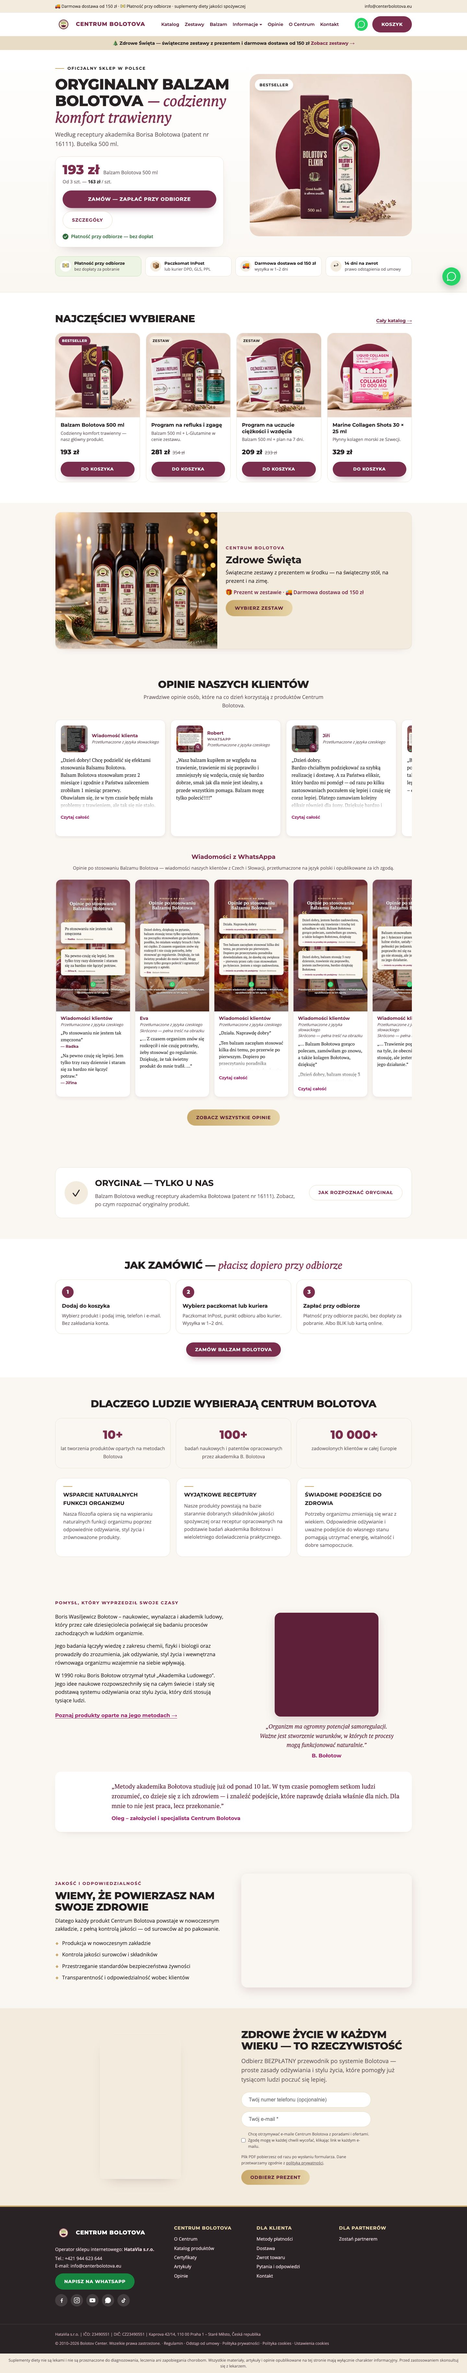
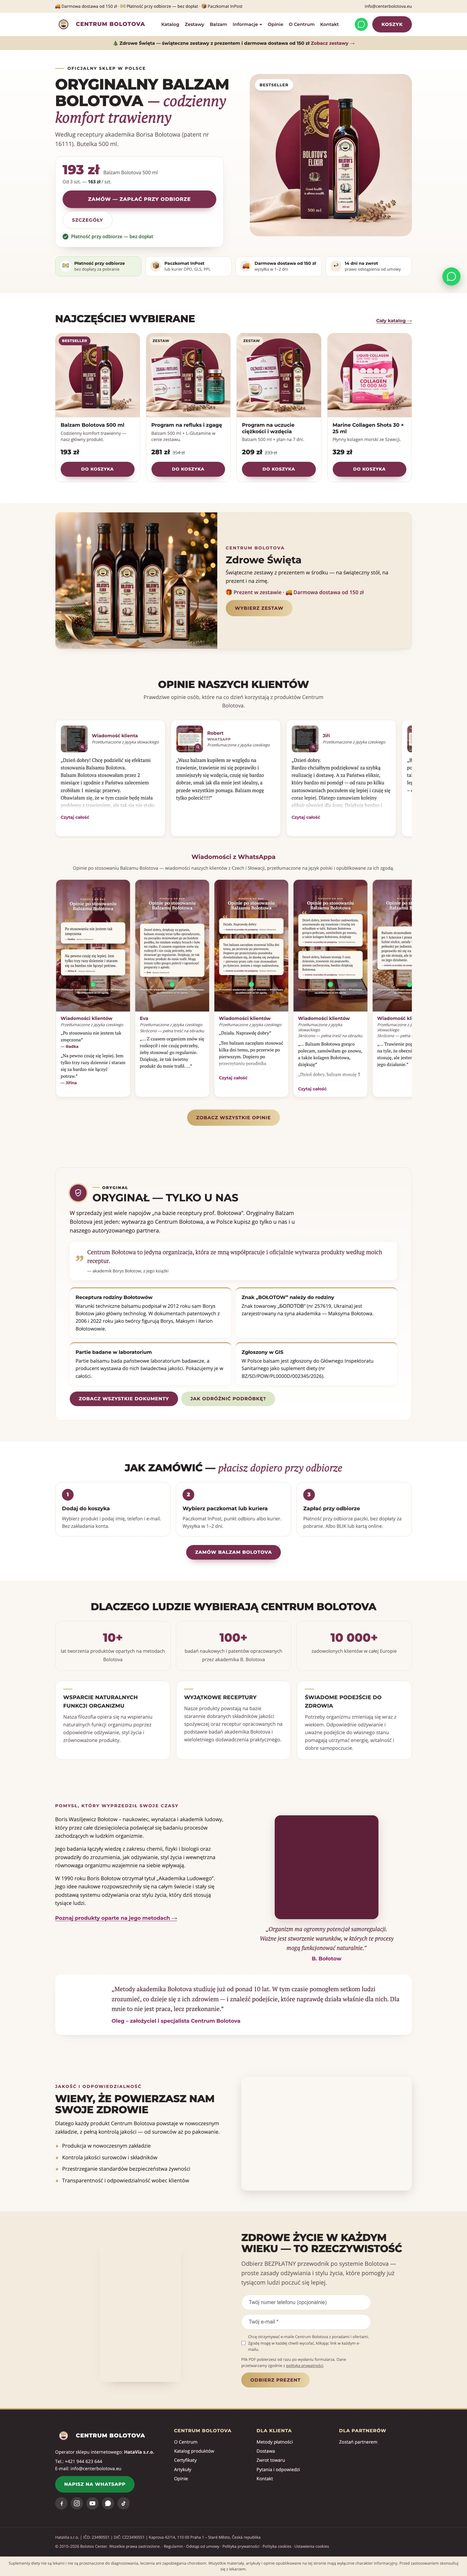
pl-redesign: home page now carries the «Oryginał» block A2 (not final copy)

diff --git a/pl-redesign/oryginal.css b/pl-redesign/oryginal.css
@@ -1,0 +1,96 @@
+/* «Oryginał» styles — certificates page + the drop-in blocks in components/oryginal/.
+   Scoped to .orig-* classes; relies on brand.css variables (--wine, --magenta, --gold, --sage, --cream).
+   Docs: docs/ORIGINAL-COPY.md (texts), components/oryginal/README.md (how to include). */
+
+.orig-eyebrow{display:inline-flex;align-items:center;gap:8px;font-family:'Montserrat','Montserrat Fallback',sans-serif;font-weight:800;font-size:12px;letter-spacing:.14em;text-transform:uppercase;color:var(--magenta)}
+.orig-eyebrow::before{content:'';width:22px;height:2px;background:var(--gold);border-radius:2px}
+.orig-seal{flex:0 0 auto;width:52px;height:52px;border-radius:50%;display:grid;place-items:center;background:var(--wine);color:#fff;box-shadow:0 0 0 4px var(--gold-light)}
+.orig-seal svg{width:26px;height:26px}
+
+/* ---------- Short block (card / home strip) ---------- */
+.orig-short{display:flex;gap:16px;align-items:flex-start;background:#fff;border:1px solid #efe2e8;border-left:5px solid var(--wine);border-radius:16px;padding:18px 20px;box-shadow:0 4px 16px rgba(94,32,57,.07)}
+.orig-short h3{margin:2px 0 6px;font-size:18px;line-height:1.25;color:var(--wine)}
+.orig-short p{margin:0;font-size:15px;line-height:1.55}
+.orig-short a.orig-link{display:inline-block;margin-top:8px;font-weight:700;color:var(--magenta);text-decoration:none}
+.orig-short a.orig-link:hover{text-decoration:underline}
+
+/* ---------- Long block (home section / card tab) ---------- */
+.orig-long{background:linear-gradient(180deg,var(--cream),#fff);border-radius:22px;padding:clamp(22px,4vw,44px);border:1px solid #efe2e8}
+.orig-long-head{display:flex;gap:18px;align-items:center;margin-bottom:14px}
+.orig-long h2{margin:4px 0 0;font-size:clamp(24px,3vw,32px);line-height:1.15;color:var(--wine)}
+.orig-lead{font-size:17px;line-height:1.6;max-width:760px}
+.orig-quote{margin:22px 0;padding:18px 22px 18px 54px;position:relative;background:#fff;border-radius:14px;box-shadow:0 4px 16px rgba(94,32,57,.06);font-family:'PT Serif','PT Serif Fallback',serif;font-size:18px;line-height:1.5;color:var(--wine-dark)}
+.orig-quote::before{content:'„';position:absolute;left:16px;top:-6px;font-size:64px;line-height:1;color:var(--gold)}
+.orig-quote cite{display:block;margin-top:8px;font-family:'Open Sans','Open Sans Fallback',sans-serif;font-style:normal;font-size:13px;color:#6b5b62}
+.orig-points{display:grid;grid-template-columns:repeat(2,1fr);gap:14px;margin:0;padding:0;list-style:none}
+.orig-points li{background:#fff;border-radius:14px;padding:16px 18px;border-top:3px solid var(--gold);box-shadow:0 3px 12px rgba(94,32,57,.05);font-size:15px;line-height:1.55}
+.orig-points strong{display:block;font-family:'Montserrat','Montserrat Fallback',sans-serif;color:var(--wine);margin-bottom:4px;font-size:15px}
+.orig-actions{display:flex;flex-wrap:wrap;gap:10px;margin-top:20px}
+
+/* ---------- Price block ---------- */
+.orig-price{background:var(--wine-dark);color:#fff;border-radius:22px;padding:clamp(22px,4vw,44px);overflow:hidden;position:relative}
+.orig-price h2{color:#fff;margin:6px 0 8px;font-size:clamp(24px,3vw,32px);line-height:1.15}
+.orig-price .orig-eyebrow{color:var(--gold-light)}
+.orig-price-lead{color:#ecdbe2;font-size:17px;line-height:1.6;max-width:640px}
+.orig-price-grid{display:grid;grid-template-columns:minmax(220px,300px) 1fr;gap:clamp(18px,3vw,36px);margin-top:22px;align-items:start}
+.orig-perday{background:var(--cream);color:var(--wine-dark);border-radius:18px;padding:22px;text-align:center}
+.orig-perday .num{display:block;font-family:'Montserrat','Montserrat Fallback',sans-serif;font-weight:800;font-size:46px;line-height:1;color:var(--wine)}
+.orig-perday .unit{display:block;font-weight:700;margin-top:4px}
+.orig-perday small{display:block;margin-top:10px;font-size:13px;line-height:1.45;color:#6b5b62}
+.orig-perday table{width:100%;margin-top:14px;border-collapse:collapse;font-size:14px}
+.orig-perday td{padding:6px 4px;border-top:1px solid #eadfd3;text-align:left}
+.orig-perday td:last-child{text-align:right;font-weight:700;color:var(--wine);white-space:nowrap}
+.orig-reasons{list-style:none;margin:0;padding:0;display:grid;gap:12px;counter-reset:r}
+.orig-reasons li{counter-increment:r;position:relative;padding:14px 16px 14px 56px;background:rgba(255,255,255,.07);border:1px solid rgba(255,255,255,.12);border-radius:14px;font-size:15px;line-height:1.55;color:#f3e8ec}
+.orig-reasons li::before{content:counter(r);position:absolute;left:14px;top:14px;width:28px;height:28px;border-radius:50%;background:var(--gold);color:var(--wine-dark);font-weight:800;display:grid;place-items:center;font-family:'Montserrat','Montserrat Fallback',sans-serif;font-size:14px}
+.orig-reasons strong{display:block;color:#fff;font-family:'Montserrat','Montserrat Fallback',sans-serif;margin-bottom:2px}
+.orig-price .orig-note{margin-top:18px;font-size:12.5px;line-height:1.5;color:#cdb5bf}
+.orig-price .btn-ghost{background:transparent;color:#fff;border:1.5px solid rgba(255,255,255,.5)}
+.orig-price .btn-ghost:hover{background:rgba(255,255,255,.1)}
+.orig-price .btn-gold{background:var(--gold);color:var(--wine-dark)}
+.orig-price .btn-gold:hover{background:var(--gold-light)}
+@media (max-width:760px){.orig-price-grid{grid-template-columns:1fr}}
+
+/* ---------- Certificates page ---------- */
+.orig-page{max-width:980px}
+.orig-hero{text-align:center;max-width:760px;margin:0 auto}
+.orig-hero p{font-size:17px;line-height:1.6;margin-top:14px}
+.orig-status{display:flex;gap:16px;align-items:center;max-width:760px;margin:26px auto 0;background:#fff;border-radius:16px;padding:16px 20px;border:1px solid #e5ecd6;box-shadow:0 4px 16px rgba(94,32,57,.06)}
+.orig-status .orig-seal{background:#5d7a3a;box-shadow:0 0 0 4px var(--sage)}
+.orig-status dl{margin:0;display:grid;gap:2px;font-size:14px;line-height:1.5}
+.orig-status dt{font-family:'Montserrat','Montserrat Fallback',sans-serif;font-weight:800;color:var(--wine);font-size:15px}
+.orig-status dd{margin:0}
+.orig-jump{display:flex;flex-wrap:wrap;justify-content:center;gap:8px;margin:22px 0 6px;padding:0;list-style:none}
+.orig-jump a{display:inline-block;padding:7px 14px;border-radius:40px;background:var(--sage);color:var(--wine-dark);font-size:13.5px;font-weight:700;text-decoration:none}
+.orig-jump a:hover{background:var(--sage-deep)}
+.orig-sec{margin-top:48px;scroll-margin-top:90px}
+.orig-sec h2{font-size:clamp(21px,2.4vw,27px);color:var(--wine);margin:0 0 12px;display:flex;align-items:center;gap:12px}
+.orig-sec h2 .n{flex:0 0 auto;width:34px;height:34px;border-radius:50%;background:var(--wine);color:#fff;display:grid;place-items:center;font-size:15px}
+.orig-sec p{line-height:1.65}
+.orig-split{display:grid;grid-template-columns:1fr 260px;gap:24px;align-items:start}
+.orig-thumbs{display:grid;grid-template-columns:1fr 1fr;gap:10px}
+.orig-thumbs a,.orig-lib a{position:relative;display:block;cursor:zoom-in}
+.orig-thumbs img{width:100%;height:170px;object-fit:contain;background:#fff;border:1px solid #efe5e9;border-radius:10px;padding:6px}
+.orig-facts{display:grid;grid-template-columns:1fr 1fr;gap:12px;margin:0}
+.orig-facts .wide{grid-column:1/-1}
+.orig-facts div{background:#fff;border-radius:14px;padding:14px 16px;box-shadow:0 3px 12px rgba(94,32,57,.05)}
+.orig-facts dt{font-family:'Montserrat','Montserrat Fallback',sans-serif;font-weight:800;font-size:12px;letter-spacing:.08em;text-transform:uppercase;color:var(--magenta)}
+.orig-facts dd{margin:4px 0 0;line-height:1.55}
+.orig-steps{list-style:none;margin:18px 0 0;padding:0;position:relative}
+.orig-steps::before{content:'';position:absolute;left:19px;top:10px;bottom:10px;width:2px;background:linear-gradient(var(--gold),var(--wine))}
+.orig-steps li{position:relative;padding:0 0 18px 58px}
+.orig-steps li .k{position:absolute;left:0;top:0;width:40px;height:40px;border-radius:50%;background:#fff;border:2px solid var(--wine);color:var(--wine);display:grid;place-items:center;font-weight:800;font-family:'Montserrat','Montserrat Fallback',sans-serif}
+.orig-steps li strong{display:block;color:var(--wine);font-family:'Montserrat','Montserrat Fallback',sans-serif;margin-bottom:2px;padding-top:8px}
+.orig-steps li span{display:block;font-size:15px;line-height:1.55}
+.orig-steps li a{color:var(--magenta);font-weight:700;font-size:14px}
+.orig-score{display:inline-flex;align-items:center;gap:10px;margin-top:4px;padding:10px 16px;border-radius:12px;background:var(--sage);color:var(--wine-dark);font-weight:700}
+.orig-lib{display:grid;grid-template-columns:repeat(auto-fill,minmax(150px,1fr));gap:16px;margin-top:14px}
+.orig-lib figure{margin:0}
+.orig-lib img{width:100%;height:210px;object-fit:contain;background:#fff;border:1px solid #efe5e9;border-radius:12px;padding:8px;box-shadow:0 4px 14px rgba(94,32,57,.07);transition:.18s}
+.orig-lib a:hover img{box-shadow:0 8px 22px rgba(94,32,57,.16);transform:translateY(-2px)}
+.orig-lib figcaption{margin-top:8px;font-size:13px;line-height:1.4;color:#5a4a51}
+.orig-checks{list-style:none;margin:12px 0 0;padding:0;display:grid;gap:10px}
+.orig-checks li{position:relative;padding:12px 14px 12px 46px;background:#fff;border-radius:12px;box-shadow:0 3px 12px rgba(94,32,57,.05);line-height:1.55}
+.orig-checks li::before{content:'✓';position:absolute;left:14px;top:11px;width:22px;height:22px;border-radius:50%;background:var(--sage);color:#3f5a22;font-weight:800;display:grid;place-items:center;font-size:13px}
+.orig-checks li.warn::before{content:'!';background:#f6e1d8;color:#9a3b12}
+@media (max-width:760px){.orig-split{grid-template-columns:1fr}.orig-lib{grid-template-columns:1fr 1fr;gap:12px}.orig-lib img{height:190px}.orig-points,.orig-facts{grid-template-columns:1fr}.orig-thumbs img{height:150px}.orig-status{align-items:flex-start}}

diff --git a/pl-redesign/index.html b/pl-redesign/index.html
@@ -21,7 +21,7 @@ try{ if(/koszyk/.test(location.pathname) && !JSON.parse(localStorage.getItem('bo
   <meta property="og:type" content="website">
   <meta property="og:title" content="Centrum Bolotova — oficjalna strona internetowa w Polsce">
   <meta property="og:image" content="assets/img/logo.png">
-  <link rel="stylesheet" href="brand.css?v=2026112001"><script>/* «Zdrowe Święta» strips ([data-swieta]) and their free-delivery words ([data-swieta-deliv]) decided BEFORE the first paint (speed 2026-11-15): cart.js used to unhide them after load, which pushed the hero down. Same dates as cart.js — CATALOG['set-swieta-dla-dwojga'] and FREE_FROM_PROMO (Prague day); cart.js still decides again after load. Change the dates in both places (docs/DEPLOY.md «Speed pass»). */(function(){var SW=['2026-11-01',''],DV=['2026-11-01',''],t;try{t=new Intl.DateTimeFormat('sv-SE',{timeZone:'Europe/Prague',year:'numeric',month:'2-digit',day:'2-digit'}).format(new Date())}catch(e){}if(!/^\d{4}-\d{2}-\d{2}$/.test(t||'')||!window.MutationObserver)return;function on(w){return t>=w[0]&&(!w[1]||t<=w[1])}var s=on(SW),d=on(DV);function all(){var a=document.querySelectorAll('[data-swieta]'),i;for(i=0;i<a.length;i++)a[i].hidden=!s;a=document.querySelectorAll('[data-swieta-deliv]');for(i=0;i<a.length;i++)a[i].hidden=!d}var o=new MutationObserver(all);o.observe(document.documentElement,{childList:true,subtree:true});document.addEventListener('DOMContentLoaded',function(){o.disconnect();all()})})();</script><link rel="icon" type="image/png" sizes="32x32" href="assets/img/favicon-32.png"><link rel="apple-touch-icon" sizes="180x180" href="assets/img/favicon-180.png"><link rel="manifest" href="site.webmanifest">
+  <link rel="stylesheet" href="brand.css?v=2026112001"><link rel="stylesheet" href="oryginal.css?v=2026111901"><script>/* «Zdrowe Święta» strips ([data-swieta]) and their free-delivery words ([data-swieta-deliv]) decided BEFORE the first paint (speed 2026-11-15): cart.js used to unhide them after load, which pushed the hero down. Same dates as cart.js — CATALOG['set-swieta-dla-dwojga'] and FREE_FROM_PROMO (Prague day); cart.js still decides again after load. Change the dates in both places (docs/DEPLOY.md «Speed pass»). */(function(){var SW=['2026-11-01',''],DV=['2026-11-01',''],t;try{t=new Intl.DateTimeFormat('sv-SE',{timeZone:'Europe/Prague',year:'numeric',month:'2-digit',day:'2-digit'}).format(new Date())}catch(e){}if(!/^\d{4}-\d{2}-\d{2}$/.test(t||'')||!window.MutationObserver)return;function on(w){return t>=w[0]&&(!w[1]||t<=w[1])}var s=on(SW),d=on(DV);function all(){var a=document.querySelectorAll('[data-swieta]'),i;for(i=0;i<a.length;i++)a[i].hidden=!s;a=document.querySelectorAll('[data-swieta-deliv]');for(i=0;i<a.length;i++)a[i].hidden=!d}var o=new MutationObserver(all);o.observe(document.documentElement,{childList:true,subtree:true});document.addEventListener('DOMContentLoaded',function(){o.disconnect();all()})})();</script><link rel="icon" type="image/png" sizes="32x32" href="assets/img/favicon-32.png"><link rel="apple-touch-icon" sizes="180x180" href="assets/img/favicon-180.png"><link rel="manifest" href="site.webmanifest">
   <script type="application/ld+json">
   {"@context":"https://schema.org","@type":"Organization","name":"Centrum Bolotova",
    "url":"https://centrumbolotova.pl/","email":"info@centerbolotova.eu",
@@ -457,20 +457,36 @@ try{ if(/koszyk/.test(location.pathname) && !JSON.parse(localStorage.getItem('bo
   </div></section>
 
 
-  <!-- «ORYGINAŁ — TYLKO U NAS» — SLOT. The trust copy is being written in a separate task (owner's dashboard, 2026-11-19);
-       until it lands this block carries only what is already on the site: the «how to tell the original» article and the
-       patent number. Replace the inside of <section id="oryginal"> with the approved copy; keep the id (the preview and
-       docs/REDESIGN-2026-11.md point at it). -->
-  <section id="oryginal" class="section" data-slot="oryginal-trust">
+  <!-- «ORYGINAŁ — TYLKO U NAS» — slot on the home page (redesign 2026-11). The block between the ORYGINAL markers is a
+       verbatim copy of shops/poland/components/oryginal/oryginal-long.html (branch feat/pl-original, c3f2e317); its texts and
+       compliance log are docs/ORIGINAL-COPY.md §A2 there. NOT FINAL: the owner still decides the partner's name (D1) and
+       the «tylko u nas» wording (D2) — when they change, replace everything between the markers with the new component.
+       Styles: oryginal.css (owned by feat/pl-original; take theirs on merge). The block carries id="oryginal" itself. -->
+  <section class="section" data-slot="oryginal-trust">
     <div class="container">
-      <div class="trust-slot">
-        <div class="seal" aria-hidden="true">✓</div>
-        <div>
-          <h2>Oryginał — tylko u nas</h2>
-          <p>Balzam Bolotova według receptury akademika Bołotowa (patent nr 16111). Zobacz, po czym rozpoznać oryginalny produkt.</p>
-        </div>
-        <a class="btn btn-line" href="https://centrumbolotova.pl/artykul-jak-rozpoznac-oryginalny-balzam-bolotova.html">Jak rozpoznać oryginał</a>
-      </div>
+<!-- ORYGINAL:START components/oryginal/oryginal-long.html -->
+<div class="orig-long" id="oryginal">
+  <div class="orig-long-head">
+    <span class="orig-seal"><svg viewBox="0 0 24 24" fill="none" stroke="currentColor" stroke-width="2" stroke-linecap="round" stroke-linejoin="round" aria-hidden="true"><path d="M12 2l7 3v6c0 4.6-3 8.6-7 10-4-1.4-7-5.4-7-10V5l7-3z"/><path d="M8.5 12l2.4 2.4L15.8 9.5"/></svg></span>
+    <div>
+      <span class="orig-eyebrow">Oryginał</span>
+      <h2>Oryginał — tylko u nas</h2>
+    </div>
+  </div>
+  <p class="orig-lead">W sprzedaży jest wiele napojów „na bazie receptury prof. Bołotowa”. Oryginalny Balzam Bolotova jest jeden: wytwarza go Centrum Bołotowa, a w Polsce kupisz go tylko u nas i u naszego autoryzowanego partnera.</p>
+  <blockquote class="orig-quote">Centrum Bołotowa to jedyna organizacja, która ze mną współpracuje i oficjalnie wytwarza produkty według moich receptur.<cite>— akademik Borys Bołotow, z jego książki</cite></blockquote>
+  <ul class="orig-points">
+    <li><strong>Receptura rodziny Bołotowów</strong>Warunki techniczne balsamu podpisał w 2012 roku sam Borys Bołotow jako główny technolog. W dokumentach patentowych z 2006 i 2022 roku jako twórcy figurują Borys, Maksym i Iłarion Bołotowowie.</li>
+    <li><strong>Znak „BOŁOTOW” należy do rodziny</strong>Znak towarowy „БОЛОТОВ” (nr 257619, Ukraina) jest zarejestrowany na syna akademika — Maksyma Bołotowa.</li>
+    <li><strong>Partie badane w laboratorium</strong>Partie balsamu bada państwowe laboratorium badawcze, a producent wystawia do nich świadectwa jakości. Pokazujemy je w całości.</li>
+    <li><strong>Zgłoszony w GIS</strong>W Polsce balsam jest zgłoszony do Głównego Inspektoratu Sanitarnego jako suplement diety (nr BZ/SD/POW/PL0000D/002345/2026).</li>
+  </ul>
+  <div class="orig-actions">
+    <a class="btn btn-primary" href="https://centrumbolotova.pl/certyfikaty.html">Zobacz wszystkie dokumenty</a>
+    <a class="btn btn-ghost" href="https://centrumbolotova.pl/faq.html#podrobka">Jak odróżnić podróbkę?</a>
+  </div>
+</div>
+<!-- ORYGINAL:END -->
     </div>
   </section>
 
@@ -623,8 +639,8 @@ try{ if(/koszyk/.test(location.pathname) && !JSON.parse(localStorage.getItem('bo
   }, true);
 })();
 </script>
-<style>#oryginal .trust-slot{outline:3px dashed #C9A86A;outline-offset:6px;position:relative}
-#oryginal .trust-slot::after{content:'Место для блока «Оригинал — только у нас» (текст пишет другая сессия)';position:absolute;
+<style>[data-slot="oryginal-trust"] .orig-long{outline:3px dashed #C9A86A;outline-offset:6px;position:relative}
+[data-slot="oryginal-trust"] .orig-long::after{content:'Блок «Оригинал» — текст ещё не окончательный (партнёр, «tylko u nas»)';position:absolute;
 left:12px;top:-14px;background:#C9A86A;color:#262224;font:700 12px/1 system-ui,sans-serif;padding:5px 8px;border-radius:6px}</style>
 </body>
 </html>

diff --git a/pl-redesign/brand.css b/pl-redesign/brand.css
@@ -733,11 +733,15 @@ h2.title em,h1 em{font-family:'PT Serif','PT Serif Fallback',serif;font-style:it
 .pprice s{color:#786b71;font-size:14px;white-space:nowrap}
 .pbody .btn{justify-content:center;margin-top:8px;min-height:46px;padding:10px 14px;font-size:13px;width:100%}
 
-/* ---------- Home: «oryginał — tylko u nas» slot (copy comes from a separate task) ---------- */
-.trust-slot{background:#fff;border:1px solid var(--line);border-radius:var(--r-lg);padding:28px;display:grid;grid-template-columns:auto 1fr auto;gap:22px;align-items:center}
-.trust-slot .seal{width:72px;height:72px;border-radius:50%;background:var(--beige);display:grid;place-items:center;font-size:32px}
-.trust-slot h2{font-size:clamp(20px,2.2vw,26px);color:var(--ink);text-transform:uppercase}
-.trust-slot p{margin-top:6px;color:var(--muted)}
+/* ---------- Home: «oryginał — tylko u nas» slot — the block itself is feat/pl-original's (.orig-*, oryginal.css);
+   here only its headings follow the redesign (ink headings, burgundy kept for the seal and the button). ---------- */
+[data-slot="oryginal-trust"] .orig-long h2{color:var(--ink);text-transform:uppercase}
+[data-slot="oryginal-trust"] .orig-eyebrow{color:var(--ink)}
+[data-slot="oryginal-trust"] .orig-points strong{color:var(--ink)}
+[data-slot="oryginal-trust"] .orig-long{border-color:var(--line)}
+/* its two buttons are nowrap: «Zobacz wszystkie dokumenty» ran 1 px past a 360 px screen (rule 65) — wrap, full width on phones */
+[data-slot="oryginal-trust"] .orig-actions .btn{max-width:100%;white-space:normal;text-align:center;justify-content:center;line-height:1.25}
+@media (max-width:640px){[data-slot="oryginal-trust"] .orig-actions .btn{flex:1 1 100%}}
 
 /* ---------- Home: how ordering works ---------- */
 .steps{display:grid;grid-template-columns:repeat(3,1fr);gap:16px;margin-top:26px;counter-reset:st}
@@ -766,7 +770,6 @@ h2.title em,h1 em{font-family:'PT Serif','PT Serif Fallback',serif;font-style:it
 }
 @media (max-width:820px){
   .steps,.why3,.nums{grid-template-columns:1fr}
-  .trust-slot{grid-template-columns:1fr;text-align:left;padding:22px}
 }
 @media (max-width:640px){
   .section{padding:44px 0}

diff --git a/pl-redesign/koszyk.html b/pl-redesign/koszyk.html
@@ -1146,8 +1146,8 @@ try{ if(/koszyk/.test(location.pathname) && !JSON.parse(localStorage.getItem('bo
   }, true);
 })();
 </script>
-<style>#oryginal .trust-slot{outline:3px dashed #C9A86A;outline-offset:6px;position:relative}
-#oryginal .trust-slot::after{content:'Место для блока «Оригинал — только у нас» (текст пишет другая сессия)';position:absolute;
+<style>[data-slot="oryginal-trust"] .orig-long{outline:3px dashed #C9A86A;outline-offset:6px;position:relative}
+[data-slot="oryginal-trust"] .orig-long::after{content:'Блок «Оригинал» — текст ещё не окончательный (партнёр, «tylko u nas»)';position:absolute;
 left:12px;top:-14px;background:#C9A86A;color:#262224;font:700 12px/1 system-ui,sans-serif;padding:5px 8px;border-radius:6px}</style>
 </body>
 </html>
